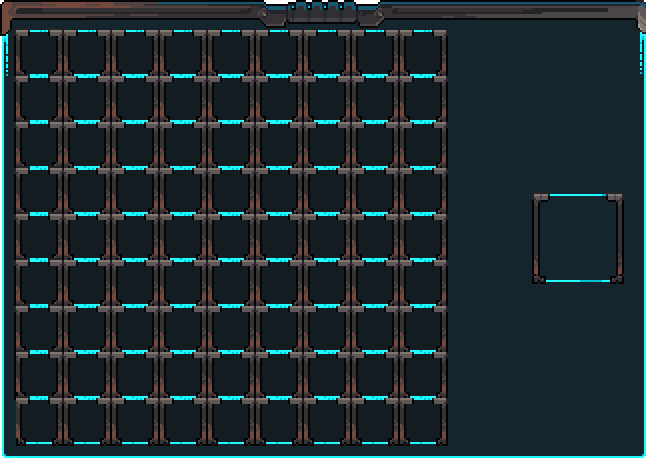
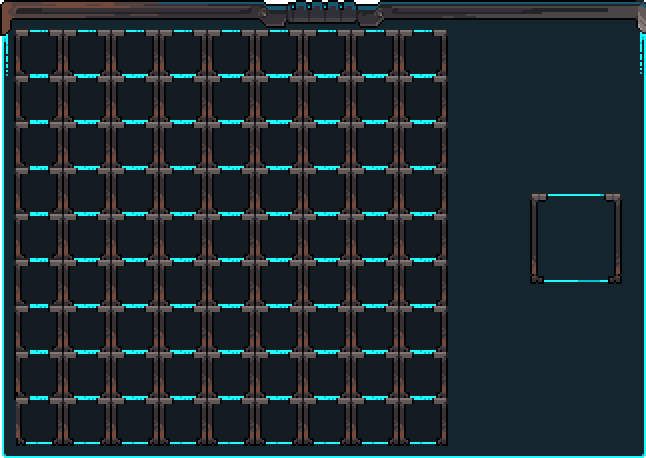
一些更新和修改

Changed region(s): [[0.9288, 0.4279, 0.9907, 0.6419], [0.805, 0.4279, 0.8359, 0.6114]]

diff --git a/Content/UIs/SupertableUIs/SupertableUI.cs b/Content/UIs/SupertableUIs/SupertableUI.cs
@@ -418,6 +418,7 @@ End:;
         /// 一键放置配方物品
         /// </summary>
         public void OneClickPFunc() {
+            bool onSound = false;
             if (previewItems != null && previewItems?.Length == items.Length) {
                 for (int i = 0; i < items.Length; i++) {
                     Item preItem2 = items[i];
@@ -433,6 +434,7 @@ End:;
                         Item targetItem = Main.mouseItem.Clone();
                         targetItem.stack = 1;
                         items[i] = targetItem;
+                        onSound = true;
                         Main.mouseItem.stack -= 1;
                         if (Main.mouseItem.stack == 0) {
                             Main.mouseItem.TurnToAir();
@@ -455,7 +457,7 @@ End:;
                                     goto End;
                                 }
                             }
-
+                            onSound = true;
                             backItem.stack -= 1;
                             if (backItem.stack == 0) {
                                 backItem.TurnToAir();
@@ -464,6 +466,10 @@ End:;
                         }
                     }
 End:;
+                }
+
+                if (onSound) {
+                    PlayGrabSound();
                 }
             }
         }
@@ -726,11 +732,13 @@ End:;
                     UpdateUIElementPos();
                 }
             }
+
             spriteBatch.Draw(Texture, DrawPos, null, Color.White, 0, Vector2.Zero, 1, SpriteEffects.None, 0);//绘制出UI主体
             spriteBatch.Draw(CWRUtils.GetT2DValue("CalamityMod/UI/DraedonSummoning/DecryptCancelIcon"), DrawPos, null, Color.White, 0, Vector2.Zero, 1, SpriteEffects.None, 0);//绘制出关闭按键
             if (onCloseP) {
                 Utils.DrawBorderStringFourWay(spriteBatch, FontAssets.ItemStack.Value, CWRLocText.GetTextValue("SupertableUI_Text1"), DrawPos.X, DrawPos.Y, Color.Gold, Color.Black, new Vector2(0.3f), 1.1f + Math.Abs(MathF.Sin(Main.GameUpdateCount * 0.05f) * 0.1f));
             }
+
             if (previewItems != null) {
                 for (int i = 0; i < items.Length; i++) {//遍历绘制出UI格中的所有预览物品
                     if (previewItems[i] != null) {
@@ -752,10 +760,10 @@ End:;
                     }
                 }
             }
-
+            
             Texture2D arrow = CWRUtils.GetT2DValue("CalamityOverhaul/Assets/UIs/SupertableUIs/InputArrow2");
             if (inputItem != null && inputItem?.type != 0) {//如果输出格有物品，那么将它画出来
-                DrawItemIcons(spriteBatch, inputItem, DrawPos + new Vector2(555, 215), overSlp: 1.5f);
+                DrawItemIcons(spriteBatch, inputItem, DrawPos + new Vector2(552, 215), overSlp: 1.5f);
                 arrow = CWRUtils.GetT2DValue("CalamityOverhaul/Assets/UIs/SupertableUIs/InputArrow");
             }
             spriteBatch.Draw(arrow, DrawPos + new Vector2(460, 225), null, Color.White, 0, Vector2.Zero, 1, SpriteEffects.None, 0);//绘制出输出箭头

diff --git a/Content/UIs/SupertableUIs/OneClickUI.cs b/Content/UIs/SupertableUIs/OneClickUI.cs
@@ -14,7 +14,7 @@ namespace CalamityOverhaul.Content.UIs.SupertableUIs
         public static OneClickUI Instance;
         public override Texture2D Texture => CWRUtils.GetT2DValue("CalamityOverhaul/Assets/UIs/SupertableUIs/OneClick");
         protected SupertableUI mainUI => SupertableUI.Instance;
-        protected virtual Vector2 offsetDraw => new Vector2(580, 300);
+        protected virtual Vector2 offsetDraw => new Vector2(578, 330);
         private Rectangle mainRec;
         private int useTimeCoolding;
         private int useMuse3AddCount;
@@ -69,7 +69,6 @@ namespace CalamityOverhaul.Content.UIs.SupertableUIs
             }
         }
         protected virtual void ClickEvent() {
-            SupertableUI.PlayGrabSound();
             mainUI.OneClickPFunc();
             mainUI.OutItem();
         }

diff --git a/Content/UIs/SupertableUIs/TwoClickUI.cs b/Content/UIs/SupertableUIs/TwoClickUI.cs
@@ -7,7 +7,7 @@ namespace CalamityOverhaul.Content.UIs.SupertableUIs
         public new static TwoClickUI Instance;
         public override Texture2D Texture => CWRUtils.GetT2DValue("CalamityOverhaul/Assets/UIs/SupertableUIs/TwoClick");
         public override void Load() => Instance = this;
-        protected override Vector2 offsetDraw => new Vector2(548, 300);
+        protected override Vector2 offsetDraw => new Vector2(546, 330);
         protected override void ClickEvent() {
             SupertableUI.PlayGrabSound();
             mainUI.TakeAllItem();

diff --git a/Content/UIs/SupertableUIs/DragButton.cs b/Content/UIs/SupertableUIs/DragButton.cs
@@ -25,7 +25,7 @@ namespace CalamityOverhaul.Content.UIs.SupertableUIs
 
         public bool onDrag;
 
-        public Vector2 InSupPosOffset => new Vector2(556, 365);
+        public Vector2 InSupPosOffset => new Vector2(554, 380);
 
         public override void Load() {
             Instance = this;
